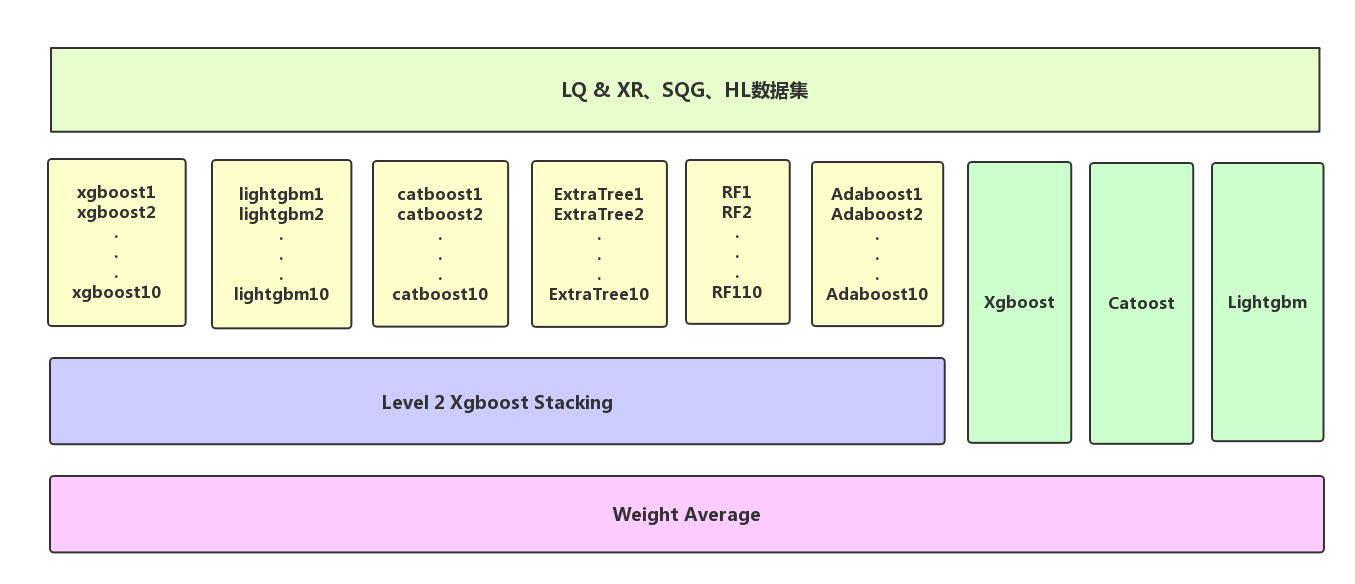
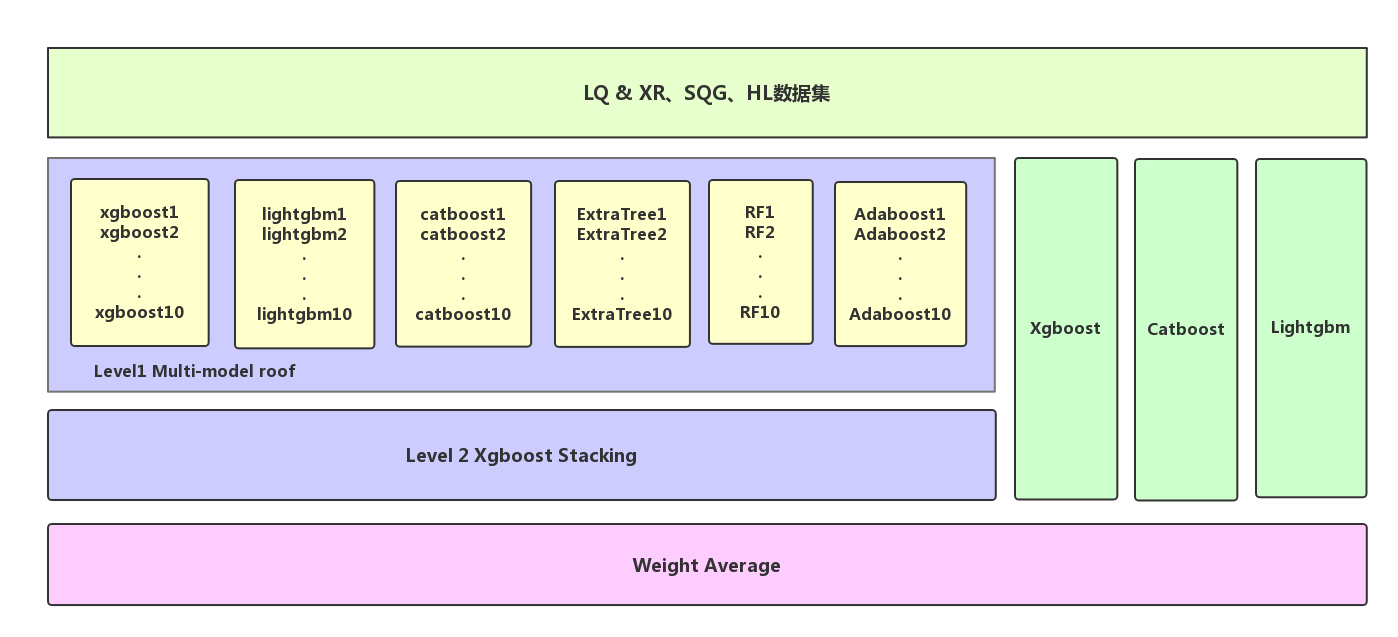
update readme

Changed region(s): [[0.031, 0.0616, 0.9919, 0.9555]]

diff --git a/README.md b/README.md
@@ -45,7 +45,7 @@ python catboost_model.py
 
 单模型和 stacking 结果保存到 `model/ensemble/average` 下，运行 `Weight_Average_Analyse.ipynb` 得到最终结果。
 
-## 特征工程
+## Feature Engineering
 
 1. User Profile: gen_user_features.py
 
@@ -112,7 +112,7 @@ python catboost_model.py
 
 特征工程运行时间较长，完整的特征文件下载传送门：[皇包车Rank5特征文件](https://pan.baidu.com/s/1ht7MjWg)
 
-## Stacking
+## Architecture
 ![](./architecture.png)
 
 ## License
